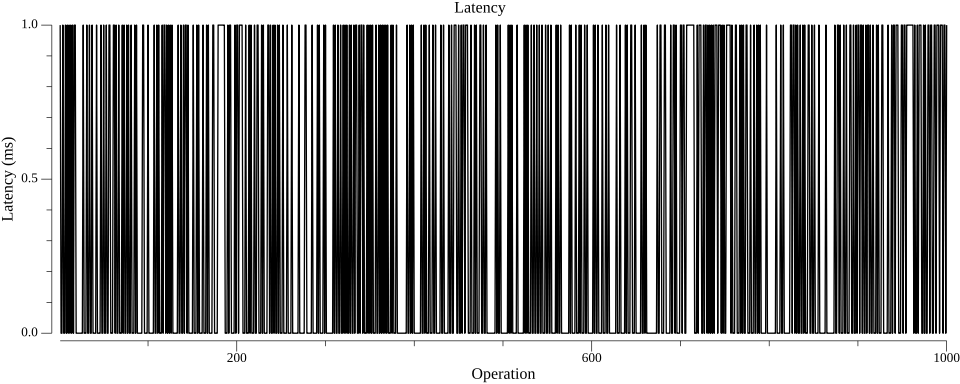
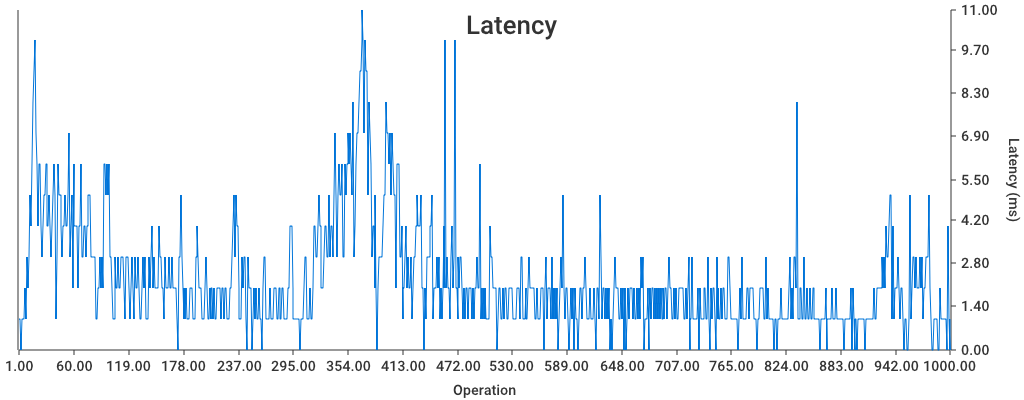
updated charting to use a different plot system

diff --git a/abd/cmd/main.go b/abd/cmd/main.go
@@ -11,9 +11,7 @@ import (
 	"github.com/alanwang67/distributed_registers/abd/client"
 	"github.com/alanwang67/distributed_registers/abd/protocol"
 	"github.com/alanwang67/distributed_registers/abd/server"
-	"gonum.org/v1/plot"
-	"gonum.org/v1/plot/plotter"
-	"gonum.org/v1/plot/vg"
+	"github.com/wcharczuk/go-chart/v2"
 )
 
 // Config structure for parsing the `config.json` file.
@@ -141,7 +139,7 @@ func startClient(id int, config Config, resultsDir string, interactive bool) {
 }
 
 func executeWorkload(cli *client.Client, clientServers []client.ServerConfig, workload []client.Instruction, resultsDir string) {
-	var throughputData, latencyData plotter.XYs
+	var latencyX, latencyY, throughputX, throughputY []float64
 	start := time.Now()
 
 	fmt.Println("Client: Starting workload execution...")
@@ -155,20 +153,16 @@ func executeWorkload(cli *client.Client, clientServers []client.ServerConfig, wo
 			continue
 		}
 
-		// Measure latency
+		// Measure latency in ms
 		latency := float64(time.Since(operationStart).Milliseconds())
-		latencyData = append(latencyData, plotter.XY{
-			X: float64(i + 1),
-			Y: latency,
-		})
+		latencyX = append(latencyX, float64(i+1))
+		latencyY = append(latencyY, latency)
 
-		// Measure throughput
+		// Measure throughput (operations/sec)
 		elapsed := time.Since(start).Seconds()
 		throughput := float64(i+1) / elapsed
-		throughputData = append(throughputData, plotter.XY{
-			X: elapsed,
-			Y: throughput,
-		})
+		throughputX = append(throughputX, elapsed)
+		throughputY = append(throughputY, throughput)
 
 		// Apply delay
 		if instr.Delay > 0 {
@@ -179,25 +173,47 @@ func executeWorkload(cli *client.Client, clientServers []client.ServerConfig, wo
 	}
 
 	fmt.Println("Client: Workload execution completed.")
-	generateChart("Throughput", "Time (s)", "Throughput (operations/s)", throughputData, filepath.Join(resultsDir, "throughput.png"))
-	generateChart("Latency", "Operation", "Latency (ms)", latencyData, filepath.Join(resultsDir, "latency.png"))
+
+	generateChart("Throughput", "Time (s)", "Throughput (operations/s)",
+		throughputX, throughputY, filepath.Join(resultsDir, "throughput.png"))
+
+	generateChart("Latency", "Operation", "Latency (ms)",
+		latencyX, latencyY, filepath.Join(resultsDir, "latency.png"))
 }
 
-// generateChart creates and saves a PNG chart.
-func generateChart(title, xLabel, yLabel string, data plotter.XYs, filepath string) {
-	p := plot.New()
-	p.Title.Text = title
-	p.X.Label.Text = xLabel
-	p.Y.Label.Text = yLabel
+// generateChart creates and saves a PNG chart using go-chart.
+func generateChart(title, xLabel, yLabel string, xData, yData []float64, outPath string) {
+	// Create a continuous series
+	series := chart.ContinuousSeries{
+		Name:    title,
+		XValues: xData,
+		YValues: yData,
+	}
 
-	line, err := plotter.NewLine(data)
+	// Build the chart
+	c := chart.Chart{
+		Title: title,
+		XAxis: chart.XAxis{
+			Name: xLabel,
+		},
+		YAxis: chart.YAxis{
+			Name: yLabel,
+		},
+		Series: []chart.Series{
+			series,
+		},
+	}
+
+	// Create the file
+	f, err := os.Create(outPath)
 	if err != nil {
-		fmt.Printf("Error creating line plot: %v\n", err)
+		fmt.Printf("Error creating chart file: %v\n", err)
 		return
 	}
-	p.Add(line)
+	defer f.Close()
 
-	if err := p.Save(10*vg.Inch, 4*vg.Inch, filepath); err != nil {
-		fmt.Printf("Error saving plot: %v\n", err)
+	// Render the chart as PNG (width=1000px, height=400px)
+	if err := c.Render(chart.PNG, f); err != nil {
+		fmt.Printf("Error rendering chart: %v\n", err)
 	}
 }
